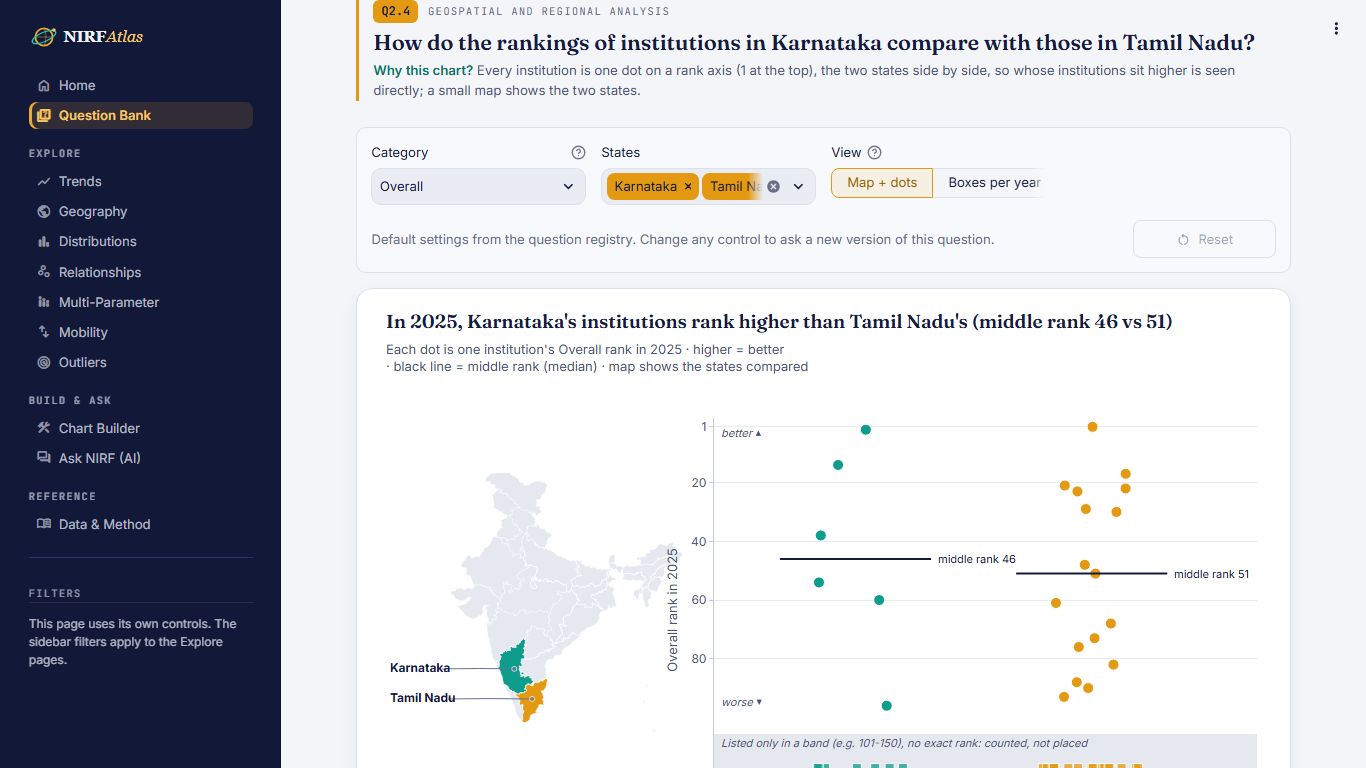
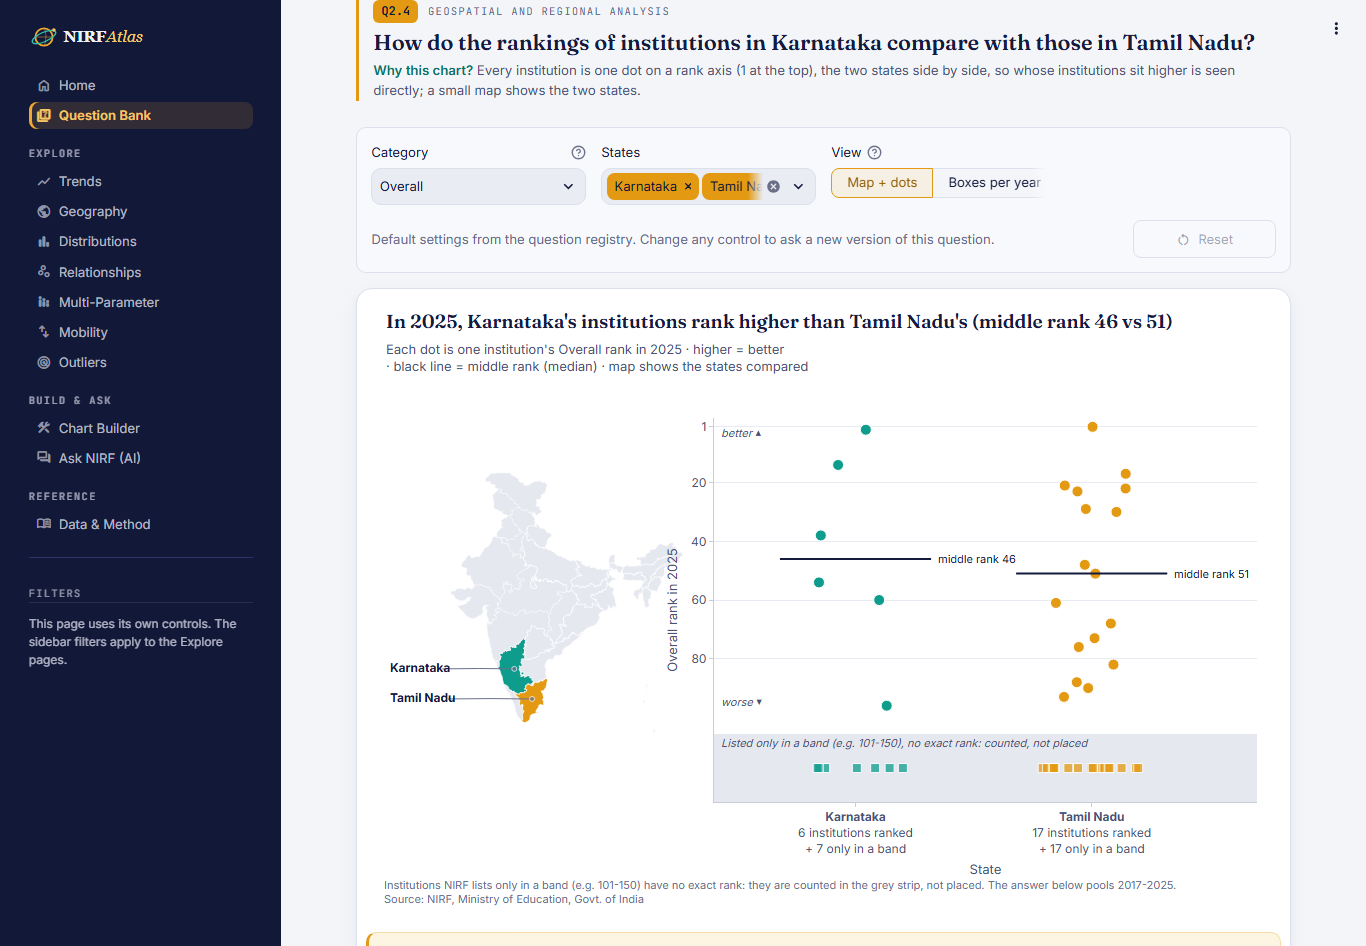
Screenshots show the whole question and chart card (the window grows to fit, then that stretch is captured)

diff --git a/scripts/screenshot_pages.py b/scripts/screenshot_pages.py
@@ -122,10 +122,27 @@ def question_shots(args) -> None:
                                      .get(view, view), exact=True).first.click()
                     page.wait_for_timeout(500)
                     wait_until_drawn(page)
+                # The question text and the whole chart card must both be in the picture: make the window as
+                # tall as that needs (the width stays 1366), then photograph exactly that stretch of the page.
+                need = page.evaluate("""() => {
+                    const head = document.querySelector('.nirf-q-head').getBoundingClientRect();
+                    const card = document.querySelector('.js-plotly-plot').closest('[data-testid="stVerticalBlockBorderWrapper"]');
+                    const c = (card || document.querySelector('.js-plotly-plot')).getBoundingClientRect();
+                    return Math.ceil(c.bottom - head.top) + 40;
+                }""")
+                page.set_viewport_size({"width": WIDTH, "height": max(HEIGHT, min(need + 120, 4000))})
+                page.wait_for_timeout(1200)
                 page.evaluate("document.querySelector('.nirf-q-head').scrollIntoView({block: 'start'})")
                 page.wait_for_timeout(2500 if page.locator('.geolayer').count() else 800)
+                box = page.evaluate("""() => {
+                    const head = document.querySelector('.nirf-q-head').getBoundingClientRect();
+                    const card = document.querySelector('.js-plotly-plot').closest('[data-testid="stVerticalBlockBorderWrapper"]');
+                    const c = (card || document.querySelector('.js-plotly-plot')).getBoundingClientRect();
+                    return {x: 0, y: Math.max(head.top - 16, 0), width: window.innerWidth, height: c.bottom - head.top + 32};
+                }""")
                 name = f"{qid}_{view}.png" if view else f"{qid}.png"
-                page.screenshot(path=str(out / name))
+                page.screenshot(path=str(out / name), clip=box)
+                page.set_viewport_size({"width": WIDTH, "height": HEIGHT})
                 print(f"saved {out / name}", flush=True)
             browser.close()
     finally:
